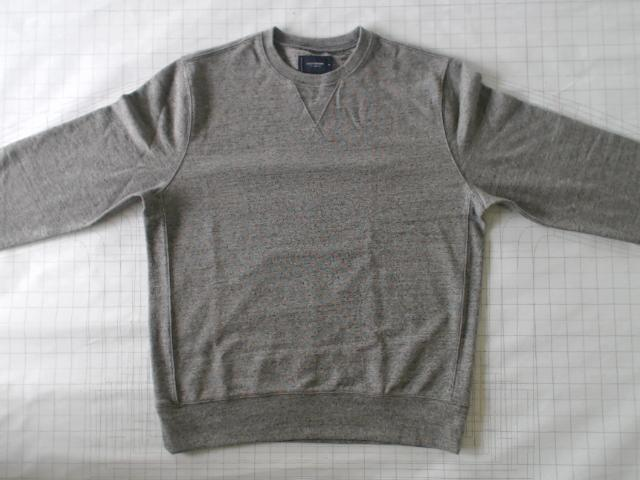
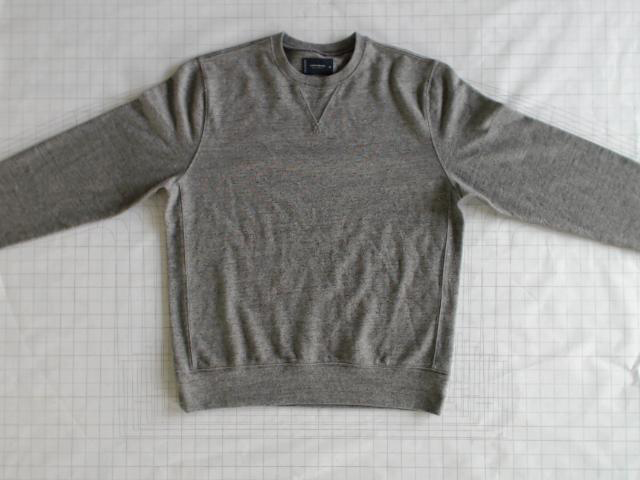
auto-offset-test01

diff --git a/autoMeasure.py b/autoMeasure.py
@@ -96,7 +96,7 @@ def proceed_clicked():
     print(pomIDs)
     
 
-    imageToBeInspected = '7M71906M.jpg'    #acting as camera
+    imageToBeInspected = '7M71906XL.jpg'    #acting as camera
     # pomID = '7M71906MFRONTLENGTHFROMHPS'   # change later for stylenum while loop
     
     for poms in pomIDs[1:]:
@@ -111,7 +111,8 @@ def proceed_clicked():
             offsetY = int(SamplePOMSheet.cell(pomID1,15).value)
             offsetX2 = int(SamplePOMSheet.cell(pomID1,16).value)
             offsetY2 = int(SamplePOMSheet.cell(pomID1,17).value)
-            pomOffset = [[offsetX,offsetY,offsetX2,offsetY2]]
+            pomOffset = [[0,0,0,0]]
+            pomOffset2 = [[offsetX,offsetY,offsetX2,offsetY2]]  
             pomUID = SamplePOMSheet.cell(pomID1,2).value
             styleName = SamplePOMSheet.cell(pomID1,3).value
             output1 = 'subImages\\'+styleName+'\subImg1\\'+pomUID+'.JPG'
@@ -119,10 +120,11 @@ def proceed_clicked():
             # output1 = 'subImages\\'+styleName+'\subImg1\\sub1.jpg'
             # output2 = 'subImages\\'+styleName+'\subImg2\\sub2.jpg'
 
-            print(pomOffset)
+            # print(pomOffset)
             pomIndex = 0
             pixelToInch = float(styleDtlSheet.cell(2,9).value) #camera height - 39 inches to 40
             resultD = []
+            resultD2 = []
 
             # for pom in poms:
 
@@ -155,27 +157,39 @@ def proceed_clicked():
             else:
                 top_left = max_loc
                 top_left2 = max_loc2
-                print (top_left)
-                print (top_left2)
+                
+                # print (top_left)
+                # print (top_left2)
                 styleDtlSheet.update_cell(offSetID, 8, (str(top_left)+','+str(top_left2)))
 
             subImg1pom = (top_left[0] + pomOffset[pomIndex][0], top_left[1] + pomOffset[pomIndex][1])
             
             subImg2pom = (top_left2[0] + pomOffset[pomIndex][2], top_left2[1] + pomOffset[pomIndex][3])
 
+
+            subImg1pom2 = (top_left[0] + pomOffset2[pomIndex][0], top_left[1] + pomOffset2[pomIndex][1])
+            
+            subImg2pom2 = (top_left2[0] + pomOffset2[pomIndex][2], top_left2[1] + pomOffset2[pomIndex][3])
+
             orientt = int(SamplePOMSheet.cell(pomID1,23).value)
             
             resultD.append((subImg2pom[orientt]+subImg1pom[orientt])/pixelToInch)
-
+            
             # Return True
-            print(pomUID+":",round(resultD[pomIndex],2),"inches") # pom end
-            SamplePOMSheet.update_cell(pomID1, 18 , (round(resultD[pomIndex],2)))
+            # print(pomUID+":",round(resultD[pomIndex],2),"inches") # pom endd
+            SamplePOMSheet.update_cell(pomID1, 24 , (round(resultD[pomIndex],2)))
+
+            resultD2.append((subImg2pom2[orientt]+subImg1pom2[orientt])/pixelToInch)  #Second Output
+            
+            # Return True
+            print(pomUID+":",round(resultD2[pomIndex],2),"inches") # pom end
+            SamplePOMSheet.update_cell(pomID1, 18 , (round(resultD2[pomIndex],2)))
             
             text.set(str(styleDtlSheet.cell(2,6).value)+"/"+str(styleDtlSheet.cell(2,3).value))
             window.update_idletasks()
-            cv.rectangle(img,subImg1pom, subImg2pom, 255, 2)    
-            cv.putText(img, str(round(resultD[pomIndex],2)) , (np.add(subImg2pom,[0,250])), cv.FONT_HERSHEY_SIMPLEX, 0.4, (36,255,12), 2, -1, )
-            time.sleep(5)
+            # cv.rectangle(img,subImg1pom, subImg2pom, 255, 2)    
+            # cv.putText(img, str(round(resultD[pomIndex],2)) , (np.add(subImg2pom,[0,250])), cv.FONT_HERSHEY_SIMPLEX, 0.4, (36,255,12), 2, -1, )
+            time.sleep(8)
         
         except NameError as e:
             print(e)
@@ -183,19 +197,23 @@ def proceed_clicked():
     result = int(styleDtlSheet.cell(2,6).value)
     total = int(styleDtlSheet.cell(2,3).value)
     if result == total :
-            # plt.subplot(121),plt.imshow(res,cmap = 'gray')
-        # plt.title('Matching Result'), plt.xticks([]), plt.yticks([])
-        plt.subplot(121),plt.imshow(img,cmap = 'gray')
-        plt.title('Detected Point'), plt.xticks([]), plt.yticks([])
-        plt.suptitle(meth)
-        mng = plt.get_current_fig_manager()
-        mng.window.state("zoomed")
-        plt.show()
+        #     # plt.subplot(121),plt.imshow(res,cmap = 'gray')
+        # # plt.title('Matching Result'), plt.xticks([]), plt.yticks([])
+        # plt.subplot(121),plt.imshow(img,cmap = 'gray')
+        # plt.title('Detected Point'), plt.xticks([]), plt.yticks([])
+        # plt.suptitle(meth)
+        # mng = plt.get_current_fig_manager()
+        # mng.window.state("zoomed")
+        # plt.show()
+        showinfo(
+            title='Information',
+            message="Detection Done!"
+        )
         pomIndex +=1    #pomindex a to b
     else:
         showinfo(
             title='Information',
-            message="Not completed!"
+            message="Not yet complete! Please detect other parts."
         )
     
 def clear_clicked():
@@ -216,9 +234,7 @@ def clear_clicked():
     selected_sizes.set("")
     selected_view.set("")
     text.set("")
-    
         
-    
 # stylenums
 stylenum_label = ttk.Label(window, text="Style Number:")
 stylenum_label.pack(fill='x', expand=False)
@@ -255,7 +271,7 @@ clear_button.pack(fill='x', expand=False)
 
 text = StringVar()
 
-taskLabel = Label(window,textvariable=text).pack(fill='x', expand=False)
+taskLabel = Label(window,textvariable=text).pack(fill='x', expand=False)    
 
 show_frame()  #Display 2
 window.mainloop()  #Starts GUI
